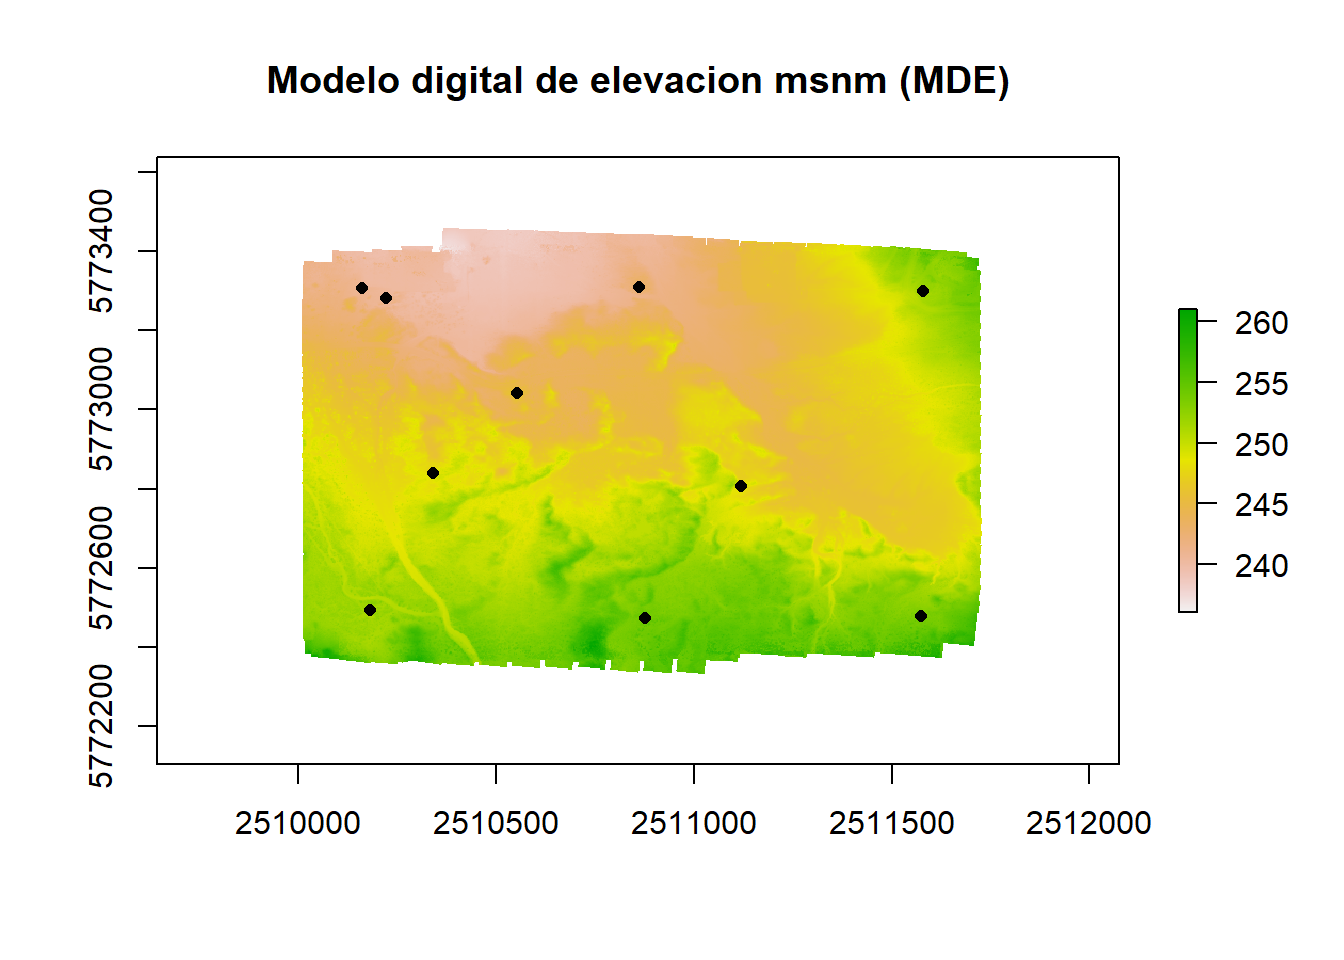
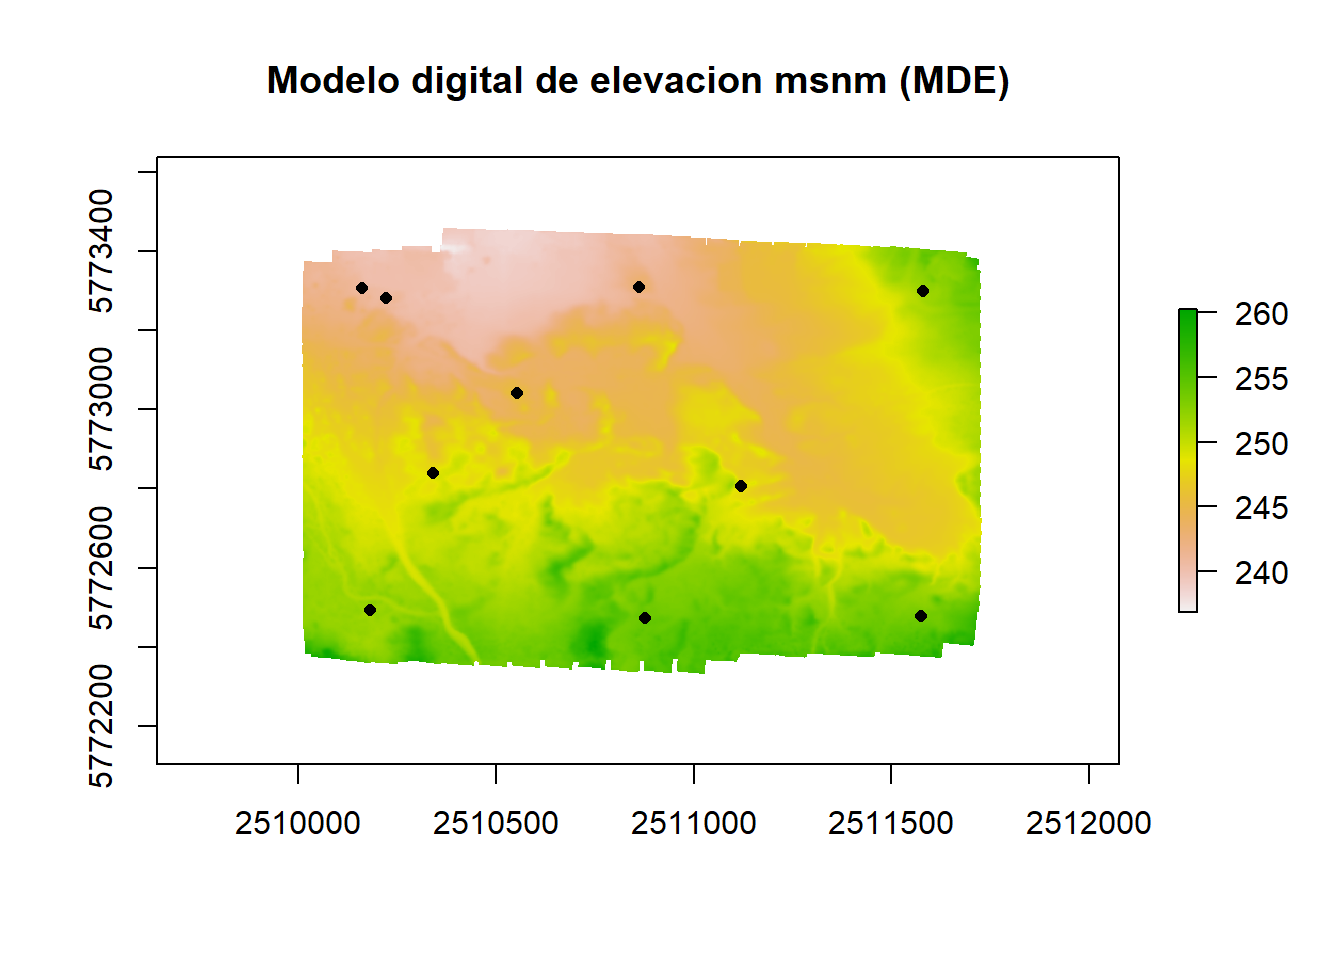
MDE

diff --git a/public/2020/05/24/argentina/index.html b/public/2020/05/24/argentina/index.html
@@ -64,7 +64,7 @@
 
   <article class="article">
     
-    <span class="article-duration">3 min read</span>
+    <span class="article-duration">2 min read</span>
     
 
     <h1 class="article-title">Argentina</h1>
@@ -84,7 +84,7 @@
 <p>Librerías requerida para el análisis estadístico:</p>
 <pre class="r"><code>library(raster); library(car); library(rgdal); library(gstat); library(caret); library(reshape); library(sp); library(lattice); library(ggplot2); library(automap); library(Metrics);</code></pre>
 <p>Cargar capas necesarias:</p>
-<pre class="r"><code>dsm &lt;- raster(&quot;C:/Proyectos/Diego/PAE/DSM_AG1.tif&quot;)
+<pre class="r"><code>dsm &lt;- raster(&quot;C:/Proyectos/Diego/PAE/DEM_AG_VS.tif&quot;)
 puntos &lt;- read.csv(&quot;C:/Proyectos/Diego/PAE/Pcontrol.csv&quot;)
 puntos_sp &lt;- puntos
 coordinates(puntos_sp) &lt;- ~ Este + Norte</code></pre>
@@ -98,7 +98,7 @@ points(puntos_sp, pch = 16, col = &quot;black&quot;, cex= 0.8)</code></pre>
 <pre class="r"><code>crs(dsm);</code></pre>
 <pre><code>## CRS arguments:
 ##  +proj=tmerc +lat_0=-90 +lon_0=-69 +k=1 +x_0=2500000 +y_0=0 +ellps=WGS84
-## +units=m +no_defs</code></pre>
+## +towgs84=0,0,0,0,0,0,0 +units=m +no_defs</code></pre>
 <pre class="r"><code>puntos_sp@proj4string &lt;- CRS(&quot;+proj=tmerc +lat_0=-90 +lon_0=-69 +k=1 +x_0=2500000 +y_0=0 +ellps=WGS84
 +towgs84=0,0,0,0,0,0,0 +units=m +no_defs&quot;)</code></pre>
 <p>Extracción de datos de alturas del MDE:</p>
@@ -110,35 +110,17 @@ points(puntos_sp, pch = 16, col = &quot;black&quot;, cex= 0.8)</code></pre>
 <p>Estadísticos de las alturas en los puntos de control, obtenidas del MDE:</p>
 <pre class="r"><code>summary(puntos_sp$Arg_Prof_dsm)</code></pre>
 <pre><code>##    Min. 1st Qu.  Median    Mean 3rd Qu.    Max. 
-##   240.6   243.7   248.2   247.8   251.7   253.9</code></pre>
+##   240.7   243.7   248.4   247.9   251.8   254.1</code></pre>
 <p>Estadísticos de los errores, diferencias o residuos entre las alturas obtenidas por ambos metodos (puntos de control y MDE):</p>
 <pre class="r"><code>summary(res_pae &lt;- abs(puntos_sp$Arg_Prof_dsm - puntos_sp$AlturaZ))</code></pre>
-<pre><code>##     Min.  1st Qu.   Median     Mean  3rd Qu.     Max. 
-## 0.005446 0.022803 0.038593 0.046468 0.070950 0.106136</code></pre>
+<pre><code>##    Min. 1st Qu.  Median    Mean 3rd Qu.    Max. 
+## 0.03614 0.09034 0.11081 0.16203 0.23086 0.40397</code></pre>
 <p>Resultados de los cálculos de residuos o errores en las alturas:</p>
 <pre class="r"><code>print(resultados)</code></pre>
-<pre><code>##           Metodos         ME        MAE         MSE       RMSE    Err Q75
-## 75% Fotogrametria 0.03034098 0.04646769 0.003188294 0.05646498 0.07094955
-##            R2
-## 75% 0.9999194</code></pre>
-<p>Gráficos:</p>
-<pre class="r"><code>par(mfrow=c(1,1))
-plot(puntos_sp$Arg_Prof_dsm, puntos_sp$AlturaZ, main=&quot;Relacion entre alturas modeladas por fotogrametria y alturas reales&quot;, xlab=&quot;Altura modelada (MDE)&quot;, 
-     ylab=&#39;Altura reales&#39;, pch= 16, col = &quot;blue&quot;, text(15,0.5, &quot;TEXT&quot;))
-abline(0,1, lty=2, col=&#39;red&#39;)
-abline(lm(puntos_sp$AlturaZ ~ puntos_sp$Arg_Prof_dsm), col = &#39;blue&#39;, lty=2)
-legend(x = 241, y = 253,  legend = c(&quot;Relacion ideal 1:1&quot;, &quot;Fotogrametria&quot;), col = c(&quot;Red&quot;, &quot;Blue&quot;), 
-       title = &quot;Leyenda&quot;, lty = 2, cex = 0.75)
-text(252,242,&quot;R2 : 0.99&quot;, cex = 1.2)</code></pre>
-<p><img src="/post/2020-05-24-argentina_files/figure-html/unnamed-chunk-13-1.png" width="672" /></p>
-<p>Gráficos de magnitud de residuos espaciales:</p>
-<pre class="r"><code>area &lt;- shapefile(&quot;C:/Proyectos/Diego/PAE/area.shp&quot;)
-area@proj4string &lt;- CRS(projargs = &quot;+proj=tmerc +lat_0=-90 +lon_0=-69 +k=1 +x_0=2500000 +y_0=0 +ellps=WGS84
-+towgs84=0,0,0,0,0,0,0 +units=m +no_defs&quot;)
-area.sp &lt;- as(area, &quot;SpatialPolygonsDataFrame&quot;, filled.contour())
-bubble(puntos_sp[!is.na(puntos_sp$diferencia),], &quot;diferencia&quot;, pch = 16, 
-       col=c(&#39;red&#39;, &#39;green&#39;), main = &quot;Errores espaciales de prediccion&quot;, sp.layout=list(&quot;sp.polygons&quot;, area.sp, fill=&quot;0&quot;) )</code></pre>
-<p><img src="/post/2020-05-24-argentina_files/figure-html/unnamed-chunk-14-1.png" width="672" /> Esta ultimo gráfico muestra las diferencias en alturas en cada sitio de control. Exponiendo la magnitud de sobre (Verde) o sub (Rojo) estimación del modelo digital de elevación (MDE). El tamaño del circulo muestra la magnitud de la diferencia.</p>
+<pre><code>##           Metodos        ME       MAE        MSE      RMSE   Err Q75      R2
+## 75% Fotogrametria 0.1548069 0.1620344 0.03901365 0.1975187 0.2308635 0.99939</code></pre>
+<p>Gráficos: <img src="/post/2020-05-24-argentina_files/figure-html/unnamed-chunk-13-1.png" width="672" /></p>
+<p>Gráficos de magnitud de residuos espaciales: <img src="/post/2020-05-24-argentina_files/figure-html/unnamed-chunk-14-1.png" width="672" /> Esta ultimo gráfico muestra las diferencias en alturas en cada sitio de control. Exponiendo la magnitud de sobre (Verde) o sub (Rojo) estimación del modelo digital de elevación (MDE). El tamaño del circulo muestra la magnitud de la diferencia.</p>
 <p><strong>Conclusiones</strong></p>
 <p>Las diferencias del modelo en general son muy bajas, con un error absoluto promedio de 5 mm, un error cuadrático de 6 mm y una coincidencia entre valores de alturas reales y modelados muy alta de 0,99. En definitiva la mayoría de los puntos no sobre pasan los 7 mm de diferencias.</p>
 </div>

diff --git a/content/post/2020-05-24-argentina.html b/content/post/2020-05-24-argentina.html
@@ -16,7 +16,7 @@ tags: []
 <p>Librerías requerida para el análisis estadístico:</p>
 <pre class="r"><code>library(raster); library(car); library(rgdal); library(gstat); library(caret); library(reshape); library(sp); library(lattice); library(ggplot2); library(automap); library(Metrics);</code></pre>
 <p>Cargar capas necesarias:</p>
-<pre class="r"><code>dsm &lt;- raster(&quot;C:/Proyectos/Diego/PAE/DSM_AG1.tif&quot;)
+<pre class="r"><code>dsm &lt;- raster(&quot;C:/Proyectos/Diego/PAE/DEM_AG_VS.tif&quot;)
 puntos &lt;- read.csv(&quot;C:/Proyectos/Diego/PAE/Pcontrol.csv&quot;)
 puntos_sp &lt;- puntos
 coordinates(puntos_sp) &lt;- ~ Este + Norte</code></pre>
@@ -30,7 +30,7 @@ points(puntos_sp, pch = 16, col = &quot;black&quot;, cex= 0.8)</code></pre>
 <pre class="r"><code>crs(dsm);</code></pre>
 <pre><code>## CRS arguments:
 ##  +proj=tmerc +lat_0=-90 +lon_0=-69 +k=1 +x_0=2500000 +y_0=0 +ellps=WGS84
-## +units=m +no_defs</code></pre>
+## +towgs84=0,0,0,0,0,0,0 +units=m +no_defs</code></pre>
 <pre class="r"><code>puntos_sp@proj4string &lt;- CRS(&quot;+proj=tmerc +lat_0=-90 +lon_0=-69 +k=1 +x_0=2500000 +y_0=0 +ellps=WGS84
 +towgs84=0,0,0,0,0,0,0 +units=m +no_defs&quot;)</code></pre>
 <p>Extracción de datos de alturas del MDE:</p>
@@ -42,35 +42,17 @@ points(puntos_sp, pch = 16, col = &quot;black&quot;, cex= 0.8)</code></pre>
 <p>Estadísticos de las alturas en los puntos de control, obtenidas del MDE:</p>
 <pre class="r"><code>summary(puntos_sp$Arg_Prof_dsm)</code></pre>
 <pre><code>##    Min. 1st Qu.  Median    Mean 3rd Qu.    Max. 
-##   240.6   243.7   248.2   247.8   251.7   253.9</code></pre>
+##   240.7   243.7   248.4   247.9   251.8   254.1</code></pre>
 <p>Estadísticos de los errores, diferencias o residuos entre las alturas obtenidas por ambos metodos (puntos de control y MDE):</p>
 <pre class="r"><code>summary(res_pae &lt;- abs(puntos_sp$Arg_Prof_dsm - puntos_sp$AlturaZ))</code></pre>
-<pre><code>##     Min.  1st Qu.   Median     Mean  3rd Qu.     Max. 
-## 0.005446 0.022803 0.038593 0.046468 0.070950 0.106136</code></pre>
+<pre><code>##    Min. 1st Qu.  Median    Mean 3rd Qu.    Max. 
+## 0.03614 0.09034 0.11081 0.16203 0.23086 0.40397</code></pre>
 <p>Resultados de los cálculos de residuos o errores en las alturas:</p>
 <pre class="r"><code>print(resultados)</code></pre>
-<pre><code>##           Metodos         ME        MAE         MSE       RMSE    Err Q75
-## 75% Fotogrametria 0.03034098 0.04646769 0.003188294 0.05646498 0.07094955
-##            R2
-## 75% 0.9999194</code></pre>
-<p>Gráficos:</p>
-<pre class="r"><code>par(mfrow=c(1,1))
-plot(puntos_sp$Arg_Prof_dsm, puntos_sp$AlturaZ, main=&quot;Relacion entre alturas modeladas por fotogrametria y alturas reales&quot;, xlab=&quot;Altura modelada (MDE)&quot;, 
-     ylab=&#39;Altura reales&#39;, pch= 16, col = &quot;blue&quot;, text(15,0.5, &quot;TEXT&quot;))
-abline(0,1, lty=2, col=&#39;red&#39;)
-abline(lm(puntos_sp$AlturaZ ~ puntos_sp$Arg_Prof_dsm), col = &#39;blue&#39;, lty=2)
-legend(x = 241, y = 253,  legend = c(&quot;Relacion ideal 1:1&quot;, &quot;Fotogrametria&quot;), col = c(&quot;Red&quot;, &quot;Blue&quot;), 
-       title = &quot;Leyenda&quot;, lty = 2, cex = 0.75)
-text(252,242,&quot;R2 : 0.99&quot;, cex = 1.2)</code></pre>
-<p><img src="/post/2020-05-24-argentina_files/figure-html/unnamed-chunk-13-1.png" width="672" /></p>
-<p>Gráficos de magnitud de residuos espaciales:</p>
-<pre class="r"><code>area &lt;- shapefile(&quot;C:/Proyectos/Diego/PAE/area.shp&quot;)
-area@proj4string &lt;- CRS(projargs = &quot;+proj=tmerc +lat_0=-90 +lon_0=-69 +k=1 +x_0=2500000 +y_0=0 +ellps=WGS84
-+towgs84=0,0,0,0,0,0,0 +units=m +no_defs&quot;)
-area.sp &lt;- as(area, &quot;SpatialPolygonsDataFrame&quot;, filled.contour())
-bubble(puntos_sp[!is.na(puntos_sp$diferencia),], &quot;diferencia&quot;, pch = 16, 
-       col=c(&#39;red&#39;, &#39;green&#39;), main = &quot;Errores espaciales de prediccion&quot;, sp.layout=list(&quot;sp.polygons&quot;, area.sp, fill=&quot;0&quot;) )</code></pre>
-<p><img src="/post/2020-05-24-argentina_files/figure-html/unnamed-chunk-14-1.png" width="672" /> Esta ultimo gráfico muestra las diferencias en alturas en cada sitio de control. Exponiendo la magnitud de sobre (Verde) o sub (Rojo) estimación del modelo digital de elevación (MDE). El tamaño del circulo muestra la magnitud de la diferencia.</p>
+<pre><code>##           Metodos        ME       MAE        MSE      RMSE   Err Q75      R2
+## 75% Fotogrametria 0.1548069 0.1620344 0.03901365 0.1975187 0.2308635 0.99939</code></pre>
+<p>Gráficos: <img src="/post/2020-05-24-argentina_files/figure-html/unnamed-chunk-13-1.png" width="672" /></p>
+<p>Gráficos de magnitud de residuos espaciales: <img src="/post/2020-05-24-argentina_files/figure-html/unnamed-chunk-14-1.png" width="672" /> Esta ultimo gráfico muestra las diferencias en alturas en cada sitio de control. Exponiendo la magnitud de sobre (Verde) o sub (Rojo) estimación del modelo digital de elevación (MDE). El tamaño del circulo muestra la magnitud de la diferencia.</p>
 <p><strong>Conclusiones</strong></p>
 <p>Las diferencias del modelo en general son muy bajas, con un error absoluto promedio de 5 mm, un error cuadrático de 6 mm y una coincidencia entre valores de alturas reales y modelados muy alta de 0,99. En definitiva la mayoría de los puntos no sobre pasan los 7 mm de diferencias.</p>
 </div>
